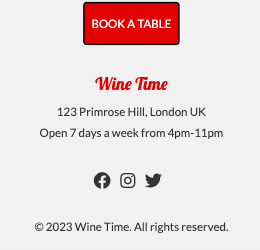
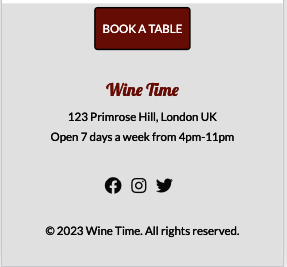
updated colour palette, navbar and footer pics in readme file

diff --git a/README.md b/README.md
@@ -127,7 +127,7 @@ The information was organized into a hierarchical tree structure or site map to 
 ##### Skeleton
 Wireframes were created using a desktop version of Balsamiq to showcase the website's appearance and ensure positive user experience.
 
-Please refer to ![Mockups-MP1](assets/wireframes/Mockups-MP1.pdf) for detailed designs.
+Please refer to [Mockups-MP1](assets/wireframes/Mockups-MP1.pdf) for detailed designs.
 
 
 ### Design
@@ -140,8 +140,8 @@ The website uses a consistent colour palette throughout all pages to ensure visu
 
 The overall design of the webpage is simple and elegant, with a focus on showcasing the wine bar's offerings in a visually appealing way. 
 
-### Colour Palette [![Colour Palette](assets/images/color-palette.png)](#design)
-[![Colour Palette](assets/images/color-palette2.png)](#design)
+### Colour Palette [![Colour Palette](assets/images/colour-palette1.png)](#design)
+[![Colour Palette](assets/images/colour-palette2.png)](#design)
 
 - ### Typography
 
@@ -168,16 +168,16 @@ The Footer stays at the bottom of the screen at all times, on all screen sizes. 
 Each page on the website has a consistent design and layout, ensuring ease of use and a seamless user experience.
 
 
-The website includes the following features:
-- Easy navigation system
-- Responsive design for all devices
-- Information on the type of bar and services available
-- Wine selection and prices
-- Food menu and prices
-- Location of the bar and working hours
-- Pictures of the bar
-- Online booking enquiry form
-- Review Form
+- The website includes the following features:
+  * Easy navigation system
+  * Responsive design for all devices
+  * Information on the type of bar and services available
+  * Wine selection and prices
+  * Food menu and prices
+  * Location of the bar and working hours
+  * Pictures of the bar
+  * Online booking enquiry form
+  * Review Form
 
 ### [General Features](#general-features)
 [Navigation bar](#navigation-bar): The navbar is responsive and adapts to different screen sizes. It includes a logo, a button for toggling the navbar menu, and links to the other pages on the website.The active page should appear inside a whiter box with a black border, the the other pages should highlight in red when hovered over, this applies to both desktop and collapsible nav bars.
@@ -198,7 +198,7 @@ Wine Bar Section: This section provides a description of the wine bar and its ph
 
 [Footer](#footer): The footer contains information about the wine bar's location and hours, as well as links to its social media pages. It also includes a call-to-action button for booking a table.
 
-![Screenshot of responsive footer](assets/images/footer.png)
+![Screenshot of responsive footer](assets/images/Browser-footer.png)
 ![Screenshot of responsive footer](assets/images/footer-bookatable-hover.png)
 ![Screenshot of responsive footer](assets/images/footer-iPhone.png)
 ![Screenshot of responsive footer](assets/images/footer-iPadmini.png)
@@ -209,8 +209,15 @@ Wine Bar Section: This section provides a description of the wine bar and its ph
 ## Favicon
 The favicon is located in the assets/images/ directory and is set as favicon.ico in the head section. Favicons help users quickly identify a website when multiple tabs are open or when searching through bookmarks.
 
+![Screenshot of favicon](assets/images/favicon.png)
+
 ## Header
 Appearing on every page for brand recognition.
+
+## Logo
+The Logo was drawn by the developer using [Illustrator](https://www.adobe.com/products/illustrator.html)
+
+![Screenshot of the logo](assets/images/ss-logo.png)
 
 ## Navigation Bar
 Appearing on every page for a consistently easy and intuitive navigable system on larger screens.
@@ -224,15 +231,17 @@ Appearing on every page, the icons are appropriate representations of the Social
 ## Carousel
 The website features a carousel (slideshow) with images and captions that showcase different aspects of Wine Time, such as vineyards, wine selections, and the overall atmosphere. This provides an engaging and visually appealing introduction to the wine bar.
 
+![Screenshot of responsive Carousel](assets/images/carousel.png)
+
 ## Wine Bar Section
 This section highlights the philosophy and offerings of Wine Time, including a brief description, a wine menu, and appetizers. It provides an overview of what visitors can expect when they visit the wine bar.
 
 ## Wine Menu and Appetizers Buttons
 The Wine Menu and Appetizers buttons in the README.md file are direct links to the PDF files of the respective menus. These buttons provide quick and easy access to the detailed information about the offerings at Wine Time.
 
-* Wine Menu: The Wine Menu button links to a PDF file ![menu1](assets/images/menu1.pdf) that contains a list of the wines available at Wine Time. The menu may include details like wine names, descriptions, regions, and prices, allowing visitors to explore and choose from a curated selection of wines.
+* Wine Menu: The Wine Menu button links to a PDF file [menu1](assets/images/menu1.pdf) that contains a list of the wines available at Wine Time. The menu may include details like wine names, descriptions, regions, and prices, allowing visitors to explore and choose from a curated selection of wines.
 
-* Appetizers: The Appetizers button links to another PDF file ![menu2](assets/images/menu2.pdf) that showcases the food offerings at Wine Time. This menu typically includes a variety of small plates, finger foods, or other light fare that pairs well with wine, enhancing the overall experience for visitors. The menu may include dish names, descriptions, and prices.
+* Appetizers: The Appetizers button links to another PDF file [menu2](assets/images/menu2.pdf) that showcases the food offerings at Wine Time. This menu typically includes a variety of small plates, finger foods, or other light fare that pairs well with wine, enhancing the overall experience for visitors. The menu may include dish names, descriptions, and prices.
 
 ## Hero Section
 * Full-screen background video that plays automatically, in a loop, and muted.
